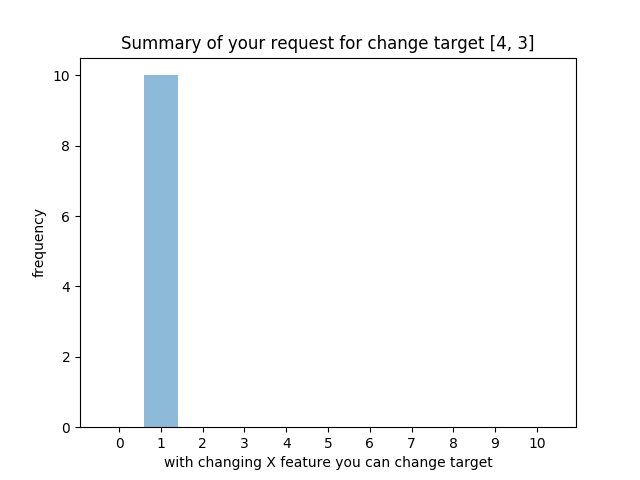
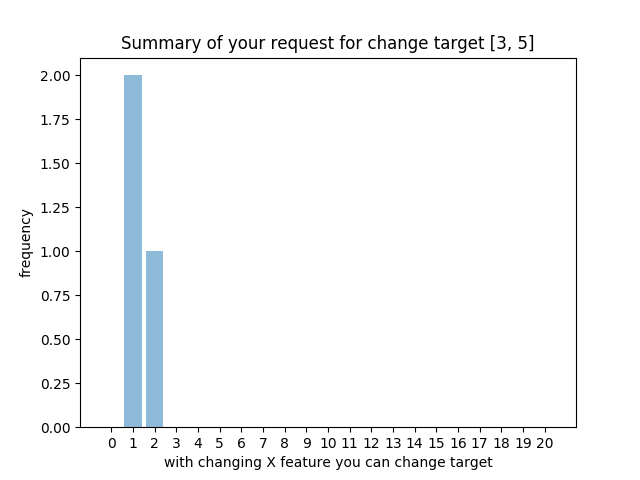
small change

diff --git a/accuracy_drop_proj/strategies/change_probabilitydistance_rankfeature/change_probabilitydistance_rankfeature.py b/accuracy_drop_proj/strategies/change_probabilitydistance_rankfeature/change_probabilitydistance_rankfeature.py
@@ -8,6 +8,7 @@ from accuracy_drop_proj.strategies.change_combination.change_combination import 
 """
 this method according the user request find the difference of the probability for each class and then sort the rows according to them.
 for example if we have [0.1  0.6  0.3] and request of user be [0,1] we compute 0.5 for this row and sort the row Ascending
+Alg4
 """
 
 class Change_ProbabilityDistance_RankFeature(object):
@@ -15,6 +16,8 @@ class Change_ProbabilityDistance_RankFeature(object):
         pass
 
     def change(self,x_train, y_train, percetage, mnb, change_plan):
+
+
         number_change_requested = int(percetage / 100 * x_train.shape[0])
         print("{} percentage error is equal to {} change \n".format(percetage, number_change_requested))
 
@@ -38,7 +41,7 @@ class Change_ProbabilityDistance_RankFeature(object):
 
         ranked_information_dic = {}
         sum_gain = 0
-        for L in range(0,x_train.shape[1] + 1 -94):
+        for L in range(0,x_train.shape[1] + 1):
             for subset in Change_Combination.combinations_index(self,information_gain.keys(), L):
                 if not subset:
                     pass
@@ -57,6 +60,7 @@ class Change_ProbabilityDistance_RankFeature(object):
 
 
         probability = mnb.predict_proba(x_train)
+        #print(probability)
         probability_distance={}
 
         #----------------------------------------------changing--------------------------------------------------
@@ -65,7 +69,7 @@ class Change_ProbabilityDistance_RankFeature(object):
             occurred_change = 0
 
             indices = [t for t, x in enumerate(y_train) if x == change_plan["key"][i][0]]
-            # print(indices)
+            #print(indices)
             print("{} rows have target {} \n".format(len(indices), change_plan["key"][i][0]))
 
             probability_distance.clear()
@@ -74,7 +78,7 @@ class Change_ProbabilityDistance_RankFeature(object):
             # find the distance probability between the class that user need to change
 
             for elements in indices:
-                probability_distance.update({elements:np.abs(probability[elements][change_plan["key"][i][0]]- probability[elements][change_plan["key"][i][1]])})
+                probability_distance.update({elements:np.abs(probability[elements][change_plan["key"][i][0]-1]- probability[elements][change_plan["key"][i][1]-1])})
             # ---------------------------finding the order of the row according to probability distance-------------------------
             # sort the row according the distance probability
 
@@ -83,7 +87,7 @@ class Change_ProbabilityDistance_RankFeature(object):
             for j in probability_distance_sorted:
                 indices.append(j[0])
 
-            print(indices)
+            #print(indices)
 
             print("try in indices")
             for p in range(len(indices)):
@@ -100,15 +104,15 @@ class Change_ProbabilityDistance_RankFeature(object):
                         else:
 
                             if (occurred_change == change_plan["number"][i]):
-                                #                         print("part of your request has been done :))))")
+                                #print("part of your request has been done :))))")
                                 break
 
 
 
-
-                            if len(list(subset[0]))>5:
-                                print("max number of the operations")
-                                break
+                            #
+                            # if len(list(subset[0]))>5:
+                            #     print("max number of the operations")
+                            #     break
 
                             print("try to change, with changing index {} on row {}".format(list(subset[0]),indices[p]))
 
@@ -153,15 +157,14 @@ class Change_ProbabilityDistance_RankFeature(object):
                             if (change_plan["key"][i][1] == mnb.predict([x_train_changed[indices[p]]])[0]):
 
                                 print(x_train[indices[p]], mnb.predict([x_train[indices[p]]])[0])
-                                print(x_train_changed[indices[p]],
-                                      mnb.predict([x_train_changed[indices[p]]])[0])
-                                print(" \n change number {} \n".format(all_changed))
+                                print(x_train_changed[indices[p]],mnb.predict([x_train_changed[indices[p]]])[0])
+                                print(" \n change number {} on row {} \n".format(all_changed, indices[p]))
 
                                 used_row.update({indices[p]: indices[p]})
                                 occurred_change = occurred_change + 1
                                 change_done = True
                                 all_changed = all_changed + 1
-                                break
+                                #break
 
                             else:
                                 x_train_changed[indices[p]] = np.copy(x_train[indices[p]])

diff --git a/accuracy_drop_proj/user_interface_accuracy_drop.py b/accuracy_drop_proj/user_interface_accuracy_drop.py
@@ -48,11 +48,11 @@ print(x_test.shape)
 
 #--------------------- Tree -----------------------------------------
 
-model=tree.DecisionTreeClassifier(random_state= 4)
-print("train tree")
-model.fit(x_train,y_train)
-y_pred = model.predict(x_test)
-print('Accuracy of tree classifier on test set: {:.2f}'.format(accuracy_score(y_test,y_pred)))
+# model=tree.DecisionTreeClassifier(random_state= 4)
+# print("train tree")
+# model.fit(x_train,y_train)
+# y_pred = model.predict(x_test)
+# print('Accuracy of tree classifier on test set: {:.2f}'.format(accuracy_score(y_test,y_pred)))
 
 # ---------------------KNN ---------------------------------------
 # from sklearn.naive_bayes import GaussianNB
@@ -60,6 +60,13 @@ print('Accuracy of tree classifier on test set: {:.2f}'.format(accuracy_score(y_
 # model.fit(x_train,y_train)
 # y_pred = model.predict(x_test)
 # print('Accuracy of tree classifier on test set: {:.2f}'.format(accuracy_score(y_test,y_pred)))
+#-----------------------------------------------------------------------------
+from sklearn.linear_model import LogisticRegression
+
+model= LogisticRegression(C=1e5, solver='lbfgs', multi_class='multinomial')
+
+model.fit(x_train, y_train)
+print('Accuracy of regresiion classifier on test set: {:.2f}'.format(model.score(x_test, y_test)))
 
 #--------------------choose your method--------------------------------------------
 
@@ -83,7 +90,7 @@ start = time.time()
 
 
 
-change_plan={"key":[[4,2],[4,3]],"number":[10,15]}
+change_plan={"key":[[4,2],[3,5]],"number":[22,3]}
 
 
 # change_plan={"key":[[0,1],[2,1]],"number":[10,10]}

diff --git a/accuracy_drop_proj/strategies/change_combination_min/change_combination_min.py b/accuracy_drop_proj/strategies/change_combination_min/change_combination_min.py
@@ -43,7 +43,7 @@ class Change_Combination_Min(object):#base rows
                                 if not subset:
                                     pass
                                 else:
-                                    print('subset is {} and row is {}'.format(subset,indices[p]))
+                                    #print('subset is {} and row is {}'.format(subset,indices[p]))
                                     x_train_changed[indices[p]][subset] = 0
                                     if (possible_changes_counter == change_plan["number"][i]):
                                         # print("the requested number of change have been found")
@@ -55,7 +55,7 @@ class Change_Combination_Min(object):#base rows
                                             change_done = True
                                             x_train_changed[indices[p]] = np.copy(x_train[indices[p]])
                                             possible_changes_counter=possible_changes_counter+1
-                                            print('Found')
+                                            #print('Found')
                                             break
                                         else:
                                             x_train_changed[indices[p]] = np.copy(x_train[indices[p]])

diff --git a/accuracy_drop_proj/utilities/load_dataset/eeg_loader.py b/accuracy_drop_proj/utilities/load_dataset/eeg_loader.py
@@ -17,7 +17,7 @@ class EEG_Loader(object):
         data = data.drop(['Unnamed: 0'], axis=1)
 
         del data["y"]  # remove rings from data, so we can convert all the dataframe to a numpy 2D array.
-        data2=data.iloc[:, [0, 1, 2, 3, 4, 5, 6, 7, 8, 9]]
+        data2=data.iloc[:, [0, 1, 2, 3, 4, 5, 6, 7, 8, 9,10, 11, 12, 13, 14, 15, 16, 17, 18, 19,20, 21, 22, 23, 24, 25, 26, 27, 28, 29]]
         X = data2.values.astype(np.float)
 
 
